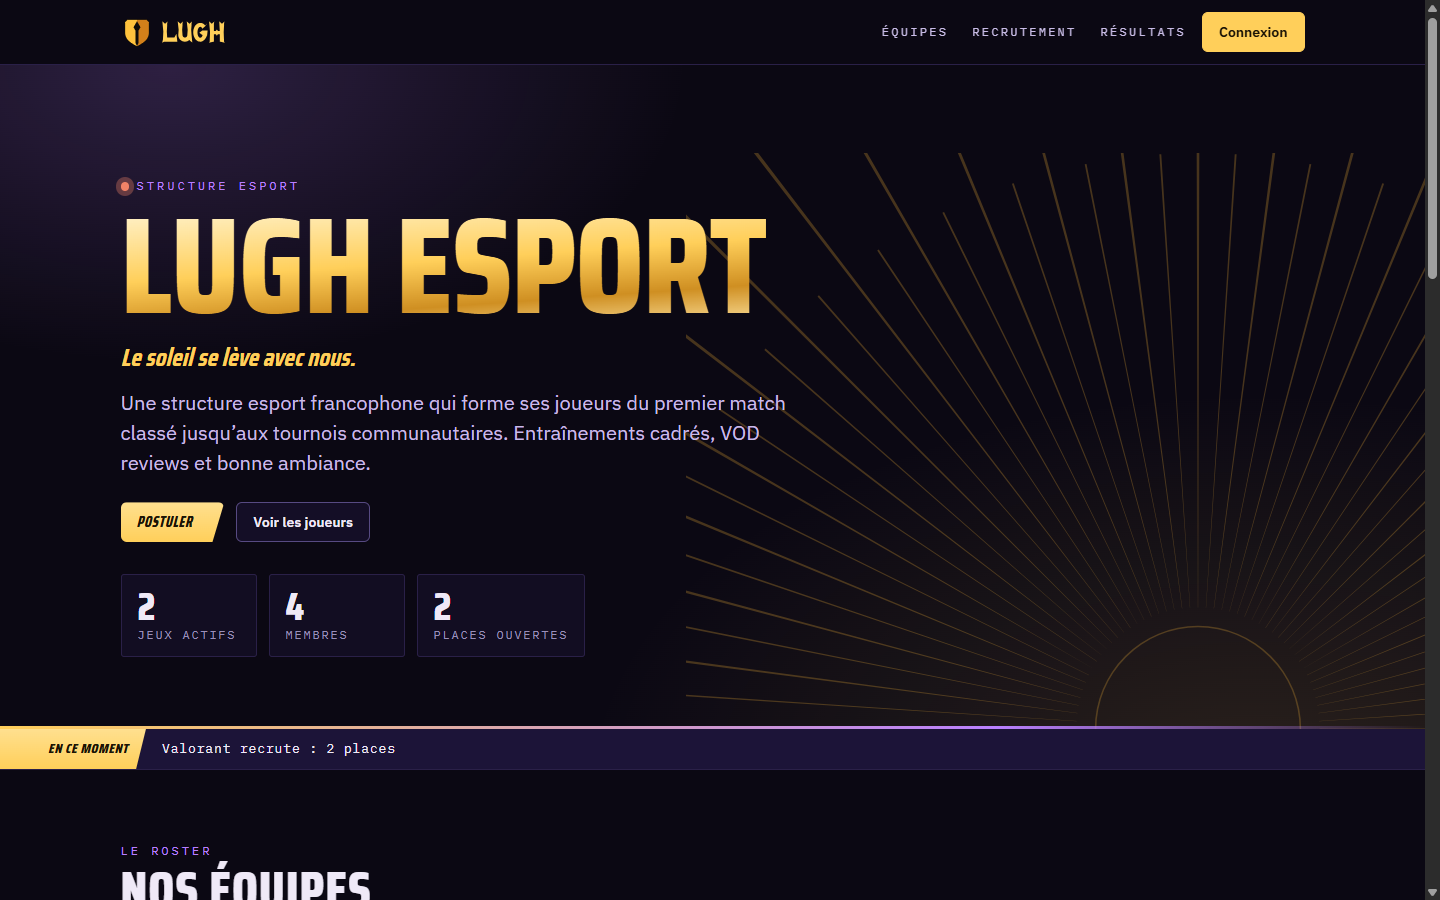
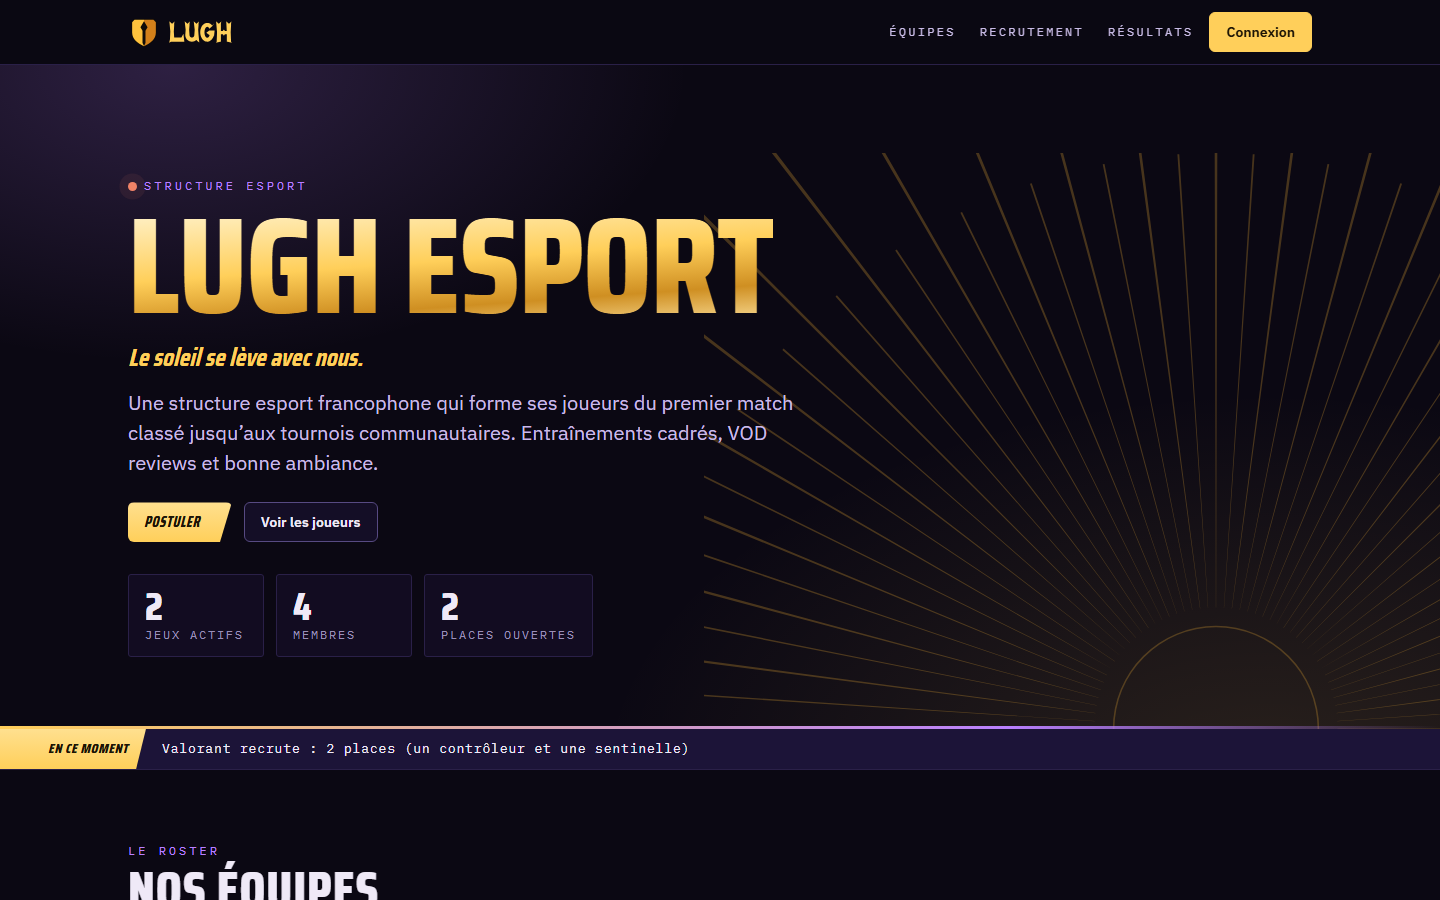
Lugh : roles recherches par jeu sur la vitrine (bloc Recrutement et bandeau)
- Roster > Profil de l'equipe : champ facultatif "Roles recherches"
  (equipe/profil.rolesRecherches, 120 caracteres sur une ligne), a cote des places.
- API publique : "recherche" par jeu, envoye seulement si le jeu a des places ;
  affiche en texte brut sous les places et dans le bandeau "En ce moment".
- Tests : validation, texte jamais interprete, vide sans place ; staff consentant
  present sur la vitrine. 248 tests.
- Captures vitrine-pc et vitrine-pc-haut refaites ; docs a jour (vitrine en ligne).

Claude-Session: https://claude.ai/code/session_014uSsHKiP1FjdLAznn3Ud2t

diff --git a/test/vitrine.test.js b/test/vitrine.test.js
@@ -101,6 +101,15 @@ test('consentement : personne n’apparaît sans avoir coché, puis seulement ps
   for (const prive of ['solaris"', 'Jean Dupont', 'Solaris#EUW', 'note privée', m._id, joueur.id, 'chef']) assert.ok(!brut.includes(prive), `rien de privé : ${prive}`);
   assert.deepEqual(jeuDe(v, 'lol').membres, [], 'un seul jeu : celui où il est au roster');
 
+  // Le staff apparaît aussi s'il a coché la même case (type « staff », sa fonction pour rôle).
+  const sm = await membre('valorant', { type: 'staff', statut: 'actif', fonction: 'coach', pseudo: 'Orion' });
+  const staff = await compteConnecte(sim, { identifiant: 'orion', acces: { valorant: { metiers: ['coach'], membreId: sm._id } } });
+  assert.equal((await staff.put('/api/moi/vitrine', { visible: true })).statut, 200);
+  const orion = jeuDe(await vitrine(), 'valorant').membres.find((x) => x.pseudo === 'Orion');
+  assert.equal(orion?.type, 'staff');
+  assert.ok(orion.role);
+  await sim.espace('valorant').stockage.modifier('membres', sm._id, { statut: 'ancien' });
+
   // Le staff le masque : il disparaît, même consentant.
   await sim.espace('valorant').stockage.modifier('membres', m._id, { vitrineMasque: true });
   assert.deepEqual(jeuDe(await vitrine(), 'valorant').membres, []);
@@ -188,6 +197,17 @@ test('recrutement, résultats, présentation et lien « Postuler » ; jeu désac
   const ok = await coach.put('/api/e/lol/c/equipe/profil', { valeur: { ...profil, nom: 'Lugh Rift', placesRecrutement: 3 }, revBase: rev });
   assert.equal(ok.statut, 200, ok.texte);
   assert.equal(jeuDe(await vitrine(), 'lol').places, 3, 'réglé par le staff du jeu');
+
+  // Rôles recherchés : même endroit, même validation (texte court sur une ligne, gardé tel quel, jamais interprété).
+  const rev2 = (await eq.lire('equipe', 'profil')).rev;
+  assert.equal((await coach.put('/api/e/lol/c/equipe/profil', { valeur: { ...profil, placesRecrutement: 3, rolesRecherches: 'x'.repeat(121) }, revBase: rev2 })).statut, 400);
+  const avecRoles = await coach.put('/api/e/lol/c/equipe/profil', { valeur: { ...profil, nom: 'Lugh Rift', placesRecrutement: 3, rolesRecherches: '  un jungler\n et un <b>support</b> ' }, revBase: rev2 });
+  assert.equal(avecRoles.statut, 200, avecRoles.texte);
+  assert.equal(jeuDe(await vitrine(), 'lol').recherche, 'un jungler et un <b>support</b>');
+  const rev3 = (await eq.lire('equipe', 'profil')).rev;
+  await coach.put('/api/e/lol/c/equipe/profil', { valeur: { ...profil, placesRecrutement: 0, rolesRecherches: 'un jungler' }, revBase: rev3 });
+  assert.equal(jeuDe(await vitrine(), 'lol').recherche, '', 'pas de rôles affichés sans place ouverte');
+  assert.equal(jeuDe(await vitrine(), 'valorant').recherche, '', 'optionnel');
 
   // Jeu désactivé : absent de la vitrine.
   const doc = sim.registre.liste().find((j) => j._id === 'lol');

diff --git a/public/js/vues/roster.js b/public/js/vues/roster.js
@@ -62,6 +62,7 @@ function editeurEquipe() {
   const creneaux = saisie({ valeur: eq.creneaux, maxlength: 120, placeholder: 'Ex. : du lundi au vendredi, 20 h à 23 h' });
   const objectif = zone({ valeur: eq.objectifSaison, lignes: 3, maxlength: 400 });
   const places = saisie({ type: 'number', valeur: eq.placesRecrutement ?? 0, min: 0, max: 20, step: 1, inputmode: 'numeric' });
+  const roles = saisie({ valeur: eq.rolesRecherches, maxlength: 120, placeholder: 'Ex. : un contrôleur et une sentinelle' });
   modale({
     titre: 'Profil de l’équipe',
     contenu: h('div', { class: 'grille-champs champs-alignes' },
@@ -70,7 +71,8 @@ function editeurEquipe() {
       champ('Palier visé cette saison', palier), champ('Circuit', circuit),
       champ('Créneaux habituels', creneaux, { large: true }),
       champ('Objectif de saison', objectif, { large: true }),
-      champ('Places ouvertes au recrutement', places, { aide: 'Affichées sur la vitrine publique avec le bouton « Postuler ». 0 = pas de recrutement affiché.' })),
+      champ('Places ouvertes au recrutement', places, { aide: 'Affichées sur la vitrine publique avec le bouton « Postuler ». 0 = pas de recrutement affiché.' }),
+      champ('Rôles recherchés', roles, { aide: 'Facultatif, affiché sous les places sur la vitrine.' })),
     actions: [{ libelle: 'Annuler' }, {
       libelle: 'Enregistrer',
       classe: 'btn--principal',
@@ -78,7 +80,7 @@ function editeurEquipe() {
         await E.enregistrer('equipe', 'profil', {
           nom: nom.value.trim(), tag: tag.value.trim(), devise: devise.value.trim(), palierVise: palier.value,
           circuit: circuit.value.trim(), creneaux: creneaux.value.trim(), objectifSaison: objectif.value.trim(),
-          placesRecrutement: Number(places.value) || 0,
+          placesRecrutement: Number(places.value) || 0, rolesRecherches: roles.value.trim(),
         }, { revBase: E.doc('equipe', 'profil')?.rev ?? 0 });
         toast('Profil de l’équipe enregistré.');
       },

diff --git a/public/js/vitrine.js b/public/js/vitrine.js
@@ -61,6 +61,7 @@ function recrutement(v) {
     h('p', { class: 'v-recrut__nombre' }, h('strong', {}, String(j.places)), h('span', {}, j.places > 1 ? 'places ouvertes' : 'place ouverte')),
     h('h3', { class: 'v-recrut__jeu' }, j.nom),
     h('p', { class: 'v-recrut__equipe' }, j.equipe.nom || 'Équipe en construction'),
+    j.recherche ? h('p', { class: 'v-recrut__roles' }, h('span', {}, 'Recherche'), j.recherche) : null,
     lienPostuler(v.structure.postuler, `Postuler · ${j.nom}`) || h('p', { class: 'v-vide' }, 'Contact bientôt disponible.'))));
 }
 
@@ -90,7 +91,7 @@ function remplir(v) {
   const ouverts = v.jeux.filter((j) => j.places > 0);
   if (ouverts.length) {
     $('bandeau').hidden = false;
-    $('bandeau').querySelector('p').textContent = ouverts.map((j) => `${j.nom} recrute : ${pluriel(j.places, 'place')}`).join('  ·  ');
+    $('bandeau').querySelector('p').textContent = ouverts.map((j) => `${j.nom} recrute : ${pluriel(j.places, 'place')}${j.recherche ? ` (${j.recherche})` : ''}`).join('  ·  ');
   }
   $('jeux').replaceChildren(...(v.jeux.length ? v.jeux.map(blocJeu) : [h('p', { class: 'v-vide' }, 'Les équipes se présentent bientôt.')]));
   $('recrutement').replaceChildren(recrutement(v));

diff --git a/public/css/vitrine.css b/public/css/vitrine.css
@@ -150,6 +150,8 @@
 .v-recrut__nombre span { font-family: var(--police-mono); font-size: 0.76rem; letter-spacing: 0.16em; text-transform: uppercase; color: var(--encre-2); }
 .v-recrut__jeu { margin: 0; font-family: var(--police-titre); font-weight: 800; text-transform: uppercase; font-size: var(--t-xl); color: var(--jeu); }
 .v-recrut__equipe { margin: 0 0 var(--e-3); color: var(--encre-2); }
+.v-recrut__roles { margin: calc(-1 * var(--e-2)) 0 var(--e-3); color: var(--encre); }
+.v-recrut__roles span { display: block; font-family: var(--police-mono); font-size: 0.72rem; letter-spacing: 0.16em; text-transform: uppercase; color: var(--encre-2); }
 .v-recrut-vide { display: grid; justify-items: start; gap: var(--e-4); max-width: 46rem; color: var(--encre-2); }
 .v-recrut-vide p { margin: 0; }
 

diff --git a/src/domaine/vitrine.js b/src/domaine/vitrine.js
@@ -61,6 +61,8 @@ export async function construireVitrine({ global, registre, identite }) {
       equipe: { nom: equipe.nom || '', tag: equipe.tag || '', devise: equipe.devise || '', circuit: equipe.circuit || '' },
       membres: presents.map(({ ordre, ...p }) => p),
       places: Number.isInteger(equipe.placesRecrutement) ? equipe.placesRecrutement : 0,
+      // Rôles recherchés : seulement quand le jeu recrute.
+      recherche: equipe.placesRecrutement > 0 ? String(equipe.rolesRecherches || '') : '',
       resultats,
     });
   }

diff --git a/shared/schemas.js b/shared/schemas.js
@@ -83,6 +83,8 @@ function formes(def) {
     objectifSaison: texte({ max: 400, multi: true }),
     // Vitrine publique : places ouvertes au recrutement (0 = aucun recrutement affiché).
     placesRecrutement: entier({ min: 0, max: 20, defaut: 0 }),
+    // Rôles recherchés, texte court sur une ligne (affiché en texte brut, jamais en HTML). Optionnel.
+    rolesRecherches: texte({ max: 120 }),
   });
 
   const membres = avecControle(objet({

diff --git a/ARCHITECTURE.md b/ARCHITECTURE.md
@@ -187,7 +187,7 @@ Base de chaque jeu `lugh_<jeu>` (mêmes collections pour tous les jeux) :
 
 ## 4. Sécurité
 
-- **Vitrine publique (14/11/2026)** : `/` sert `public/vitrine.html` (indexable), `/app/` sert `public/index.html` (`noindex`), `/app` → 301. Seules routes publiques ajoutées : `GET /api/public/vitrine` (liste blanche construite par `src/domaine/vitrine.js` : nom public, présentation, lien « Postuler » ; par jeu actif : profil public de l'équipe, membres dont le compte est actif ET a coché `vitrine.visible`, non anciens, non masqués par le staff (`membres.vitrineMasque`), avec pseudo, rôle, statut et photo ; places `equipe.placesRecrutement` ; tournois terminés) et `GET /api/public/photo/:cle` (servie seulement si elle figure dans la vitrine à cet instant ; mineur sans droit à l'image = pas de photo). Jamais d'identifiant, de nom affiché, d'identifiant en jeu, de Discord, de notes. Photo : `src/domaine/photo.js` (JPEG seulement, signature vérifiée, 300 Ko, 2048 px, segments EXIF/XMP/ICC/commentaires retirés ; le navigateur la recadre et la ré-encode avant l'envoi), collection globale `photos` (clé aléatoire de 24 hex, nouvelle à chaque envoi), effacée avec le compte. Routes `src/routes/vitrine.js`. La vitrine ne dépose ni cookie ni stockage.
+- **Vitrine publique (14/11/2026)** : `/` sert `public/vitrine.html` (indexable), `/app/` sert `public/index.html` (`noindex`), `/app` → 301. Seules routes publiques ajoutées : `GET /api/public/vitrine` (liste blanche construite par `src/domaine/vitrine.js` : nom public, présentation, lien « Postuler » ; par jeu actif : profil public de l'équipe, membres dont le compte est actif ET a coché `vitrine.visible`, non anciens, non masqués par le staff (`membres.vitrineMasque`), avec pseudo, rôle, statut et photo ; places `equipe.placesRecrutement` et rôles recherchés `equipe.rolesRecherches` (texte court, envoyé seulement si le jeu a des places, affiché en texte brut) ; tournois terminés) et `GET /api/public/photo/:cle` (servie seulement si elle figure dans la vitrine à cet instant ; mineur sans droit à l'image = pas de photo). Jamais d'identifiant, de nom affiché, d'identifiant en jeu, de Discord, de notes. Photo : `src/domaine/photo.js` (JPEG seulement, signature vérifiée, 300 Ko, 2048 px, segments EXIF/XMP/ICC/commentaires retirés ; le navigateur la recadre et la ré-encode avant l'envoi), collection globale `photos` (clé aléatoire de 24 hex, nouvelle à chaque envoi), effacée avec le compte. Routes `src/routes/vitrine.js`. La vitrine ne dépose ni cookie ni stockage.
 - Secrets uniquement en variables d'environnement Render : `MONGODB_URI`, `LUGH_ADMIN_MDP`, `ANTHROPIC_API_KEY` (facultative), `LUGH_SECRET_CRON` (facultatif), `LUGH_CLE_BOT` (facultative, 32 caractères minimum), `LUGH_CLE_2FA` (conseillée, 64 caractères hexadécimaux : `openssl rand -hex 32` ; ne jamais la changer ni la retirer une fois posée). Non secrète : `LUGH_PROXY_SAUTS` (1 par défaut). Jamais dans le dépôt, jamais dans une URL. La clé de double authentification d'un compte est en base (nécessaire pour vérifier les codes), chiffrée en AES-256-GCM avec `LUGH_CLE_2FA` (format `v1:iv:tag:chiffré`, IV aléatoire), jamais renvoyée après l'activation ; les anciennes clés en clair sont chiffrées au démarrage et à la connexion. Sans `LUGH_CLE_2FA`, elles restent en clair (avertissement dans Service). Une clé chiffrée illisible (variable absente ou changée) : connexion refusée avec un message clair (503), avertissement dans Service, rien n'est écrasé.
 - **Stats Valorant (Riot)** : actif seulement avec `RIOT_API_KEY`, `RIOT_RSO_CLIENT_ID`, `RIOT_RSO_CLIENT_SECRET`, `RIOT_RSO_REDIRECT_URI` (https, `/api/riot/retour`) et `LUGH_CLE_RIOT` (64 hex) ; sinon `/api/e/<jeu>/riot` répond `{ actif: false }`, les autres routes 503 et la page est masquée (`serveur.riot`). Clé API seulement dans l'en-tête `X-Riot-Token`, secret client seulement en Basic, codes et jetons dans le corps des POST : rien dans une URL (hors code et state du retour OAuth, imposés par le protocole). Opt-in : case `accord: true` vérifiée par le serveur, puis RSO ; state aléatoire de 24 octets gardé en empreinte, lié au compte, 10 minutes, usage unique ; retour accepté seulement avec la session du même compte (cookie `SameSite=Lax`, envoyé sur la navigation de retour). Un compte Riot ne se relie qu'à un compte Lugh. Jetons RSO chiffrés, jamais renvoyés au navigateur, PUUID jamais renvoyé. Rafraîchissement refusé par Riot = accord retiré : liaison et parties effacées (410). Tableau Équipe : `objectifs.fixer` (Responsable, head coach, coach adjoint), comptes actifs ayant accès à ce jeu ET reliés eux-mêmes. Aucun adversaire ni coéquipier stocké, aucun MMR, aucun temps réel. Jeux du modèle `valorant` seulement. La démo (`LUGH_RIOT_DEMO=1`, faux serveur et page d'autorisation locale) n'existe qu'en simulation.
 - **Séparation des jeux** : chaque requête d'un espace (`/api/e/<jeu>/…`) vérifie que le compte a un accès à ce jeu (ou est Administrateur général) ; sinon réponse « introuvable », comme pour un jeu qui n'existe pas. Les métiers et le membre lié sont ceux du compte **dans ce jeu**. Les autres comptes ne sont visibles qu'à travers le jeu partagé (nom affiché, métiers dans ce jeu).

diff --git a/A_FAIRE.md b/A_FAIRE.md
@@ -37,11 +37,13 @@
 - 05/11/2026 : textes légaux après le déménagement : hébergeur OVH SAS (serveur à Beauharnois, Canada, adéquation UE 2002/2/CE), base MongoDB locale, Render = simple renvoi de l’ancienne adresse, Atlas = ancienne base gardée 1 à 2 semaines puis supprimée, sauvegarde chaque nuit chiffrée (Cloudflare R2) ; conditions : plus de « réveil » d’hébergement gratuit ; registre des traitements à jour ; 242 tests. **Quand Atlas et Render seront supprimés** : retirer leurs lignes de `confidentialite.js` et `mentions-legales.js`.
 - 05/11/2026 : écrans d’administration et messages de configuration après le déménagement : « MongoDB (serveur OVH) » au lieu de « MongoDB Atlas » (Service, Gestion du jeu → Service), plus de « Atlas gratuit » (Jeux, espace « seuil de surveillance »), variables à poser dans `/srv/lugh/.env` du serveur (+ `sudo systemctl restart lugh`) au lieu de « Render », onglet Discord : bot et sauvegardes sur le serveur (`systemctl`/`journalctl -u lugh-bot`) au lieu du Pi/pm2. Commentaires du code et README (guide d’installation Render/Atlas) pas encore réécrits ; plafonds 512 Mo / jeux max gardés tels quels. 242 tests.
 
+- 14/11/2026 : **vitrine publique** (demande d'Olivier du 14/11) validée par Olivier (« oui pour tout »), **poussée et mise en ligne le 14/11** (captures dans `docs/apercu-vitrine/`) : `/` = vitrine (équipes, joueurs consentants avec photo, places de recrutement par jeu, résultats, « Postuler »), espace privé sous `/app/` (anciens liens `/#/…` renvoyés, manifest `/app/#/`, SW `lugh-v3`, retours Riot), case « Apparaître sur la vitrine publique » + photo dans Mon compte (JPEG nettoyé, sans dépendance), masquage par le staff (fiche du membre), places dans Roster → Profil de l'équipe, présentation + lien « Postuler » dans Identité ; confidentialité, conditions et mentions mises à jour (14/11/2026) ; robots/sitemap ; 6 docs ; 248 tests.
+- 14/11/2026 : **rôles recherchés** par jeu (Roster → Profil de l'équipe, champ `rolesRecherches`, 120 caractères sur une ligne, facultatif) affichés sous les places dans le bloc Recrutement et dans le bandeau « En ce moment » (texte brut, publié seulement si le jeu a des places) ; staff consentant sur la vitrine vérifié par un test ; 248 tests.
+
 ## En cours
-- 14/11/2026 : **vitrine publique** (demande d'Olivier du 14/11) faite en commits locaux, **pas poussée ni déployée** (attente de la validation visuelle, captures dans `docs/apercu-vitrine/`) : `/` = vitrine (équipes, joueurs consentants avec photo, places de recrutement par jeu, résultats, « Postuler »), espace privé sous `/app/` (anciens liens `/#/…` renvoyés, manifest `/app/#/`, SW `lugh-v3`, retours Riot), case « Apparaître sur la vitrine publique » + photo dans Mon compte (JPEG nettoyé, sans dépendance), masquage par le staff (fiche du membre), places dans Roster → Profil de l'équipe, présentation + lien « Postuler » dans Identité ; confidentialité, conditions et mentions mises à jour (14/11/2026) ; robots/sitemap ; 6 docs ; 248 tests.
 
 ## À faire
-- Vitrine : après validation, `git push` + `deployer-lugh.bat` ; remplir Identité (présentation, lien « Postuler » = invitation Discord) et les places de chaque jeu ; soumettre `https://lugh.aulit42369.fr/sitemap.xml` à la Search Console. Le Riot « redirect URI » ne change pas (`/api/riot/retour`).
+- Vitrine (en ligne depuis le 14/11) : remplir Identité (présentation, lien « Postuler » = invitation Discord) et, dans chaque jeu, les places et les rôles recherchés ; soumettre `https://lugh.aulit42369.fr/sitemap.xml` à la Search Console. Le Riot « redirect URI » ne change pas (`/api/riot/retour`).
 - Demande de clé de production Riot : suivre `docs/DEMANDE-RIOT.md` (captures en simulation, Register Product, puis les 5 variables dans `/srv/lugh/.env` du serveur OVH + `sudo systemctl restart lugh`).
 - **Ménage de l'ancien hébergement** (Olivier, déménagement fait le 05/11/2026, rien n'en dépend plus) : supprimer le service Render
   `lugh-esport` (il ne fait que renvoyer vers https://lugh.aulit42369.fr) et la base MongoDB Atlas ; puis sur le serveur

diff --git a/docs/BACKEND_SCHEMA.md b/docs/BACKEND_SCHEMA.md
@@ -53,9 +53,9 @@ Cookie `lugh_session` ; `localStorage` : `lugh-theme`, `lugh-dernier-jeu`, `lugh
 
 ## 5. Vitrine publique (14/11/2026)
 
-- **Routes sans compte** : `GET /api/public/vitrine` → `{ structure: { nom, presentation, postuler }, jeux: [{ id, nom, court, couleur, equipe: { nom, tag, devise, circuit }, membres: [{ pseudo, type, role, statut, photo }], places, resultats: [{ nom, date, place, resultat }] }] }` ; `GET /api/public/photo/:cle` (JPEG, 404 si la photo n'est pas publiée à cet instant).
+- **Routes sans compte** : `GET /api/public/vitrine` → `{ structure: { nom, presentation, postuler }, jeux: [{ id, nom, court, couleur, equipe: { nom, tag, devise, circuit }, membres: [{ pseudo, type, role, statut, photo }], places, recherche, resultats: [{ nom, date, place, resultat }] }] }` ; `GET /api/public/photo/:cle` (JPEG, 404 si la photo n'est pas publiée à cet instant).
 - **Routes de Mon compte** : `PUT /api/moi/vitrine { visible }`, `PUT /api/moi/photo { image }` (JPEG en base64, 300 Ko), `DELETE /api/moi/photo`, `GET /api/moi/photo` (aperçu pour soi).
 - **Base globale** : `comptes.vitrine = { visible, photo: <clé> | null }` ; nouvelle collection **`photos`** `{ _id: compteId, cle, donnees (base64), le }`, index `cle` ; effacée avec le compte. Hors de la sauvegarde `_structure.json` (le consentement repart décoché après une reprise).
-- **Base d'un jeu** : `equipe/profil.placesRecrutement` (0 à 20, défaut 0) ; `membres.vitrineMasque` (booléen, staff).
+- **Base d'un jeu** : `equipe/profil.placesRecrutement` (0 à 20, défaut 0), `equipe/profil.rolesRecherches` (texte sur une ligne, 120 caractères, facultatif ; publié dans `recherche` seulement si places > 0) ; `membres.vitrineMasque` (booléen, staff).
 - **Identité** (`parametres/structure-identite`) : `presentation` (600 caractères), `postuler` (lien https).
 - **Navigateur** : cache du service worker `lugh-v3` ; la vitrine ne stocke rien.

diff --git a/docs/PRD.md b/docs/PRD.md
@@ -56,7 +56,7 @@ Cibles à 6 mois (fin avril 2027) : espace Valorant utilisé chaque semaine (pla
 
 Une page d'accueil **publique** à https://lugh.aulit42369.fr présente la structure ; l'espace privé passe sous `/app/` (bouton « Connexion »), les anciens liens `/#/…` y sont renvoyés.
 - **Contenu** : nom public et présentation (Administratif → Identité), jeux actifs, profil public de chaque équipe (nom, tag, devise, circuit), membres **qui ont choisi d'apparaître** (pseudo, rôle, statut, photo), places ouvertes au recrutement par jeu, résultats des tournois terminés.
-- **Recrutement** : nombre de places réglé par le staff du jeu (Roster → Profil de l'équipe, défaut 0 = rien d'affiché) ; bouton « Postuler » vers le lien choisi dans Identité (invitation Discord…), sinon le contact public, sinon pas de bouton.
+- **Recrutement** : nombre de places (et, en option, les rôles recherchés, ex. « un contrôleur et une sentinelle ») réglé par le staff du jeu (Roster → Profil de l'équipe, défaut 0 = rien d'affiché) ; bouton « Postuler » vers le lien choisi dans Identité (invitation Discord…), sinon le contact public, sinon pas de bouton.
 - **Consentement** : case « Apparaître sur la vitrine publique » dans Mon compte, décochée par défaut ; photo ajoutée et retirée par la personne elle-même ; le staff peut masquer un membre ; photo d'un mineur montrée seulement avec le droit à l'image enregistré.
 - **Hors périmètre** : formulaire de candidature, statistiques détaillées, vrais noms, réseaux sociaux des joueurs.
 - **Succès** : chaque jeu qui recrute affiche ses places ; zéro donnée privée dans `/api/public/vitrine` (testé).

diff --git a/docs/IMPLEMENTATION_PLAN.md b/docs/IMPLEMENTATION_PLAN.md
@@ -29,9 +29,7 @@ Voir `ARCHITECTURE.md` § 8 et `PIEGES.md` : un seul serveur, `LUGH_CLE_2FA` à 
 
 ## 5. Vitrine publique (14/11/2026)
 
-Fait (commits locaux, pas encore en ligne) : vitrine à la racine, espace privé sous `/app/`, API publique en liste blanche, consentement et photo dans Mon compte, masquage par le staff, places de recrutement, textes légaux mis à jour (14/11/2026), robots/sitemap, 248 tests, captures dans `docs/apercu-vitrine/`.
+Fait et en ligne depuis le 14/11/2026 (rôles recherchés par jeu ajoutés le même jour) : vitrine à la racine, espace privé sous `/app/`, API publique en liste blanche, consentement et photo dans Mon compte, masquage par le staff, places de recrutement, textes légaux mis à jour (14/11/2026), robots/sitemap, 248 tests, captures dans `docs/apercu-vitrine/`.
 Reste, dans l'ordre :
-1. Validation visuelle d'Olivier (captures).
-2. `git push` puis `F:\GITHUB\serveur-aulit\deployer-lugh.bat`.
-3. Dans l'appli en ligne : Administratif → Identité (présentation, lien « Postuler ») ; chaque jeu : Roster → Profil de l'équipe → places ; prévenir les joueurs qu'ils peuvent cocher la case dans Mon compte.
-4. Search Console : soumettre `https://lugh.aulit42369.fr/sitemap.xml`.
+1. Dans l'appli en ligne : Administratif → Identité (présentation, lien « Postuler ») ; chaque jeu : Roster → Profil de l'équipe → places et rôles recherchés ; prévenir les joueurs qu'ils peuvent cocher la case dans Mon compte.
+2. Search Console : soumettre `https://lugh.aulit42369.fr/sitemap.xml`.

diff --git a/docs/APP_FLOW.md b/docs/APP_FLOW.md
@@ -45,5 +45,5 @@ Après connexion : seulement **Comptes de la structure** (livre, réglages, rapp
 1. **https://lugh.aulit42369.fr** (sans compte) : barre (logo, Équipes, Recrutement, Résultats, **Connexion**) → héros (nom, devise, présentation, « Postuler », « Voir les joueurs », compteurs) → bandeau « En ce moment » (jeux qui recrutent) → **Nos équipes** (une équipe par jeu actif, cartes des membres consentants) → **Recrutement** (places par jeu, « Postuler · <jeu> ») → **Résultats** → pied de page (Données et confidentialité · Conditions d'utilisation · Mentions légales, « aucun cookie », Espace membres).
 2. **Connexion** → `/app/` (écran de connexion habituel, puis Mes jeux). Un ancien lien `/#/valorant/roster` arrive directement sur `/app/#/valorant/roster`.
 3. **Mon compte → Vitrine publique** : case « Apparaître sur la vitrine publique », Ajouter / Changer / Retirer ma photo (aperçu).
-4. **Roster → Profil de l'équipe** : « Places ouvertes au recrutement » ; **Roster → fiche d'un membre → Modifier** : « Masquer de la vitrine publique ».
+4. **Roster → Profil de l'équipe** : « Places ouvertes au recrutement » et « Rôles recherchés » (facultatif, affiché sous les places et dans le bandeau) ; **Roster → fiche d'un membre → Modifier** : « Masquer de la vitrine publique ».
 5. **Administration → Administratif → Identité** : « Présentation de l'équipe » et lien « Postuler ».
